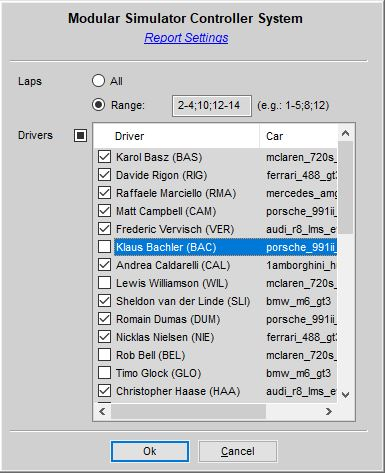
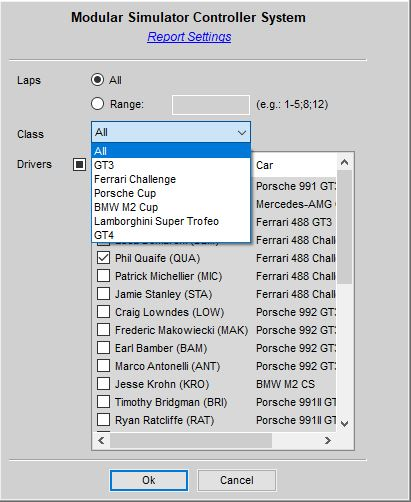
Documentation Update

diff --git a/Docs/Team Server.md b/Docs/Team Server.md
@@ -142,6 +142,10 @@ All data of an active session is stored on the Team Server. It is therefore poss
 
 A public test server is available for your first test ride with "Race Center". Use the Server URL "https://sc-teamserver-test.azurewebsites.net" and connect to the "demo" account using the password "demo". The generated token, which is valid for seven days, can be used in the "Race Center" together with the Server URL to open the demo session. The server also has ten slots ("test1" - "test10", all with an empty password), which you can use to run your own tests. Only two hours of session time are available on each account but this is enough for a short test race. The accounts will be reset each day.
 
+### Multi-class support
+
+The "Race Center" *understands* multi-class races. Please see in the sections below, where information is shown differently, when you are in a multi-class race. For the most part, class-specific information will be shon in the different reports.
+
 ### Data Analysis
 
 "Race Center" supplies you with a couple of reports, which you can use to analyse the performance of your team drivers, compare them to your oponnents and dig deeper into the telemetry data of the car. Choose one of the reports in the reports list and this report will be shown in the report area on the top right of "Race Center" window.
@@ -160,7 +164,7 @@ A very special report is the live track view, which is available for all race si
 
 ![](https://github.com/SeriousOldMan/Simulator-Controller/blob/main/Docs/Images/Race%20Center%2020.JPG)
 
-Your own car will be marked by a black dot, whereas most other cars will be displayed as gray dots on the map, except your direct opponents and the race leader, for which the positions will be color coded. All positions will be updated every couple of seconds.
+Your own car will be marked by a black dot, whereas most other cars will be displayed as gray dots on the map, except your direct opponents and the race leader, for which the positions will be color coded. All positions will be updated every couple of seconds. Please note, that when you are in a multi-class race, this information is class-specific.
 
 Beside all that, you can request several context specific data, which will be shown in the "Output" area in the lower right of the "Race Center" window.
 
@@ -183,6 +187,8 @@ Beside all that, you can request several context specific data, which will be sh
      When you select a lap in the *Laps* tab, you will get a detailed table of the standings and the gaps to the cars in front of and behind the drivers car, as well as to the leader.
 	 
 	 ![](https://github.com/SeriousOldMan/Simulator-Controller/blob/main/Docs/Images/Race%20Center%209.JPG)
+	 
+	 If the current race is a multi-class race, the report will also show the class specific positions of all cars, beside their overall position in the race. In a multi-class race, the gaps shown in the first table will always be specific for the own class.
 
   6. Details for a given pitstop
   

diff --git a/Docs/Virtual Race Strategist.md b/Docs/Virtual Race Strategist.md
@@ -104,6 +104,10 @@ Cato will always be active during a race, even if you have disabled data collect
 
 Important: In the default configuration, Cato will be activated in the first lap of a session. This is necessary, so that Cato can setup the initial knowledge (starting grid, your position, the initial strategy, etc.). If you join a session later than during the first lap, Cato will refuse to work. This behaviour can be changed with the setting "Strategist: Late Join" in the ["Session Database"](https://github.com/SeriousOldMan/Simulator-Controller/wiki/Virtual-Race-Engineer#managing-the-session-database), but the behaviour of Cato may be somewhat confusing.
 
+### Multi-class support
+
+Cato *understands* multi-class races. Position evaluation and gap and lap time information will be always focused on your own class. Where it is necessary to mention, for example, the overall position, Cato will phrase it in a way, so that you understand, that information is related to the whole grid. Support tools like "Race Reports" also *understand* multi-class races and will give you related information with a class-specific focus as well, or you can choose, at which class you want to look, for example in a report.
+
 ### Race Settings
 
 Cato shares many settings with Jona. Therefore consult the documentation on the [race settings](https://github.com/SeriousOldMan/Simulator-Controller/wiki/Virtual-Race-Engineer#race-settings) in the documentation for Jona for the general use of the settings tool and the ["Session Database"](https://github.com/SeriousOldMan/Simulator-Controller/wiki/Virtual-Race-Engineer#managing-the-session-database).
@@ -158,6 +162,8 @@ After a given race report has been selected, the "Race Reports" tool offers you 
 	 The overview list all drivers / cars with their starting positions, the best and average lap times, as well as the race results.
 	 
 	 ![](https://github.com/SeriousOldMan/Simulator-Controller/blob/main/Docs/Images/Race%20Reports%203.JPG)
+	 
+	 For multi-class sessions, two result columns with the overall result and the class-specific result will be available.
 
   2. Car Report
   
@@ -216,6 +222,8 @@ After a given race report has been selected, the "Race Reports" tool offers you 
 Some reports allow you to control the amount and type of data, which will be included in the report. Please click on the small button with the cog wheel in the upper right corner of the window to open the settings dialog, with which you can change the settings for the report. The following window will open up:
 
 ![](https://github.com/SeriousOldMan/Simulator-Controller/blob/main/Docs/Images/Report%20Settings.JPG)
+
+Beside restricting the laps which will be included in the report, you can also choose the drivers / cars for which data will be shown, or you can even restrict the report to a given class in a multi-class race.
 
 ## Strategy Development
 

diff --git a/Docs/Releases.md b/Docs/Releases.md
@@ -3,6 +3,7 @@
   2. Documentation updates, as always
   3. New remarks field for driver specific car setups in "Race Center".
   4. Fixed regression of the driver statistics report in "Race Center", which was introduced by the new mean and median calculation.
+  5. Full support for multi-class races. The Race Assistants are aware of your specific class and will all information like standings, gaps, lap times, and so on, in a class-specific way. Tools like "Race Reports" and "Race Center" are also aware of multi-class races and will show you additional information, if necessary.
 
 ## 4.4.6.0-release 11/04/22
   1. Minor bugfixes, as always

diff --git a/Docs/Virtual Race Spotter.md b/Docs/Virtual Race Spotter.md
@@ -36,6 +36,10 @@ To reactivate the Assistant use:
 
 	I can listen now
 
+### Multi-class support
+
+Elisa *understands* multi-class races. Position evaluation and gap and lap time information will be always focused on your own class. Where it is necessary to mention, for example, the overall position, Elisa will phrase it in a way, so that you understand, that information is related to the whole grid.
+
 ## Alerts & Information
 
 The Spotter will give you critical and in most cases real time information about the current race situation. This helps you to keep track and stay out of trouble. In detail:
